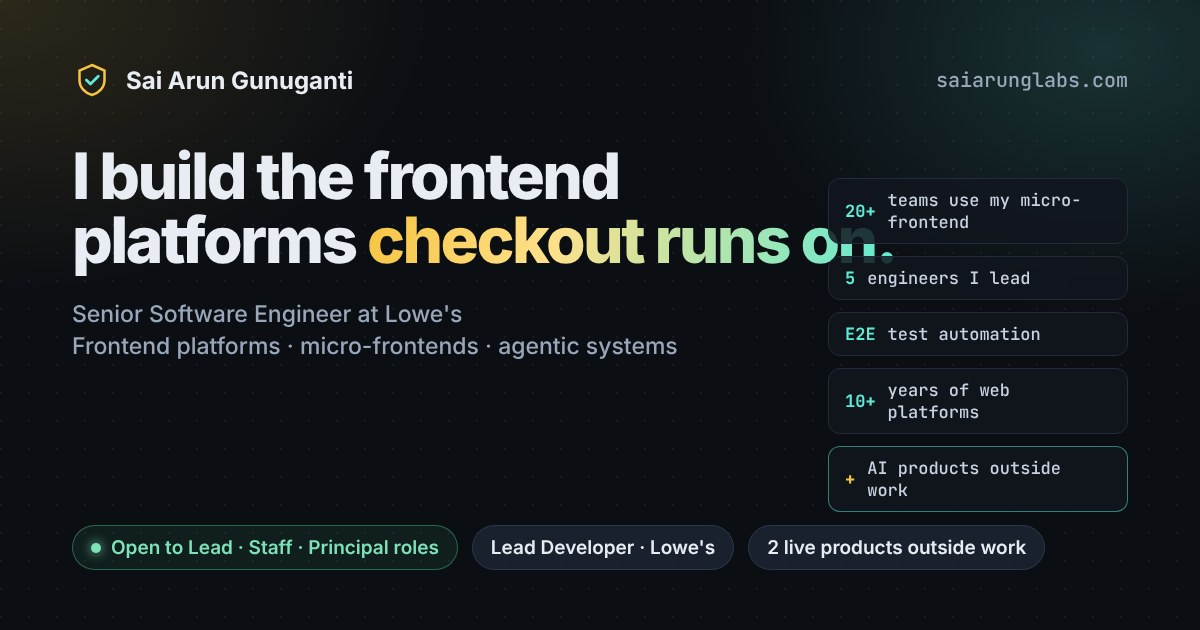
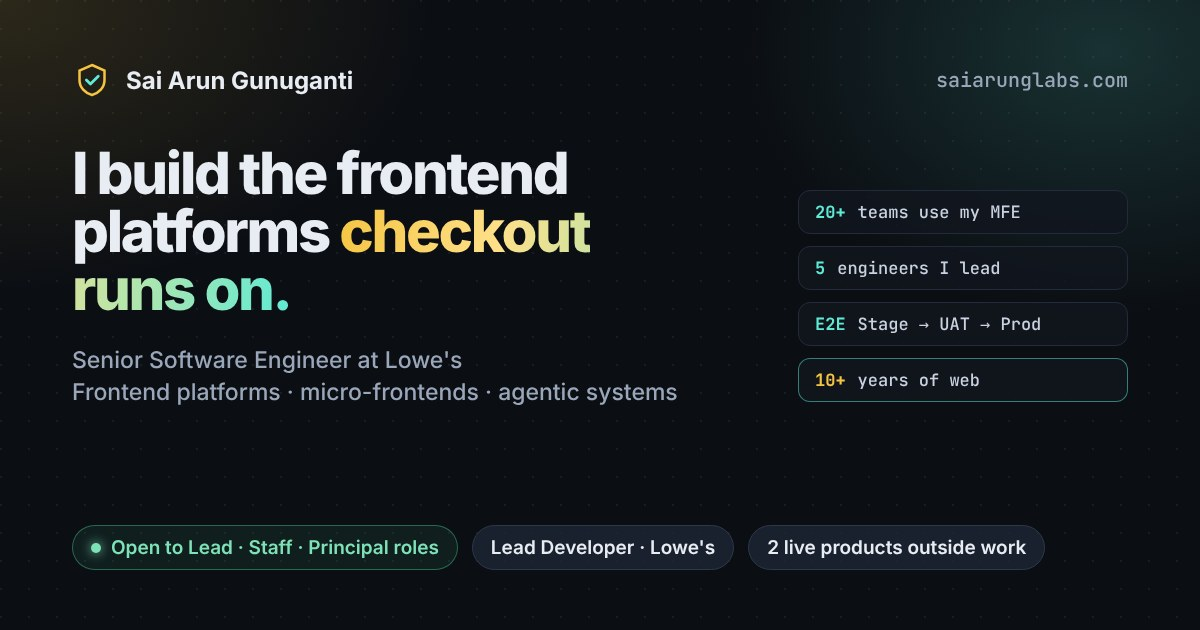
Show Stage → UAT → Production testing in diagram, hero and test automation card; fix link-preview layout
Claude-Session: https://claude.ai/code/session_01HzHLZjxcvi9w3Y5BZCGHBb

Changed region(s): [[0.0617, 0.2413, 0.925, 0.6635], [0.0617, 0.5429, 0.5858, 0.6333], [0.7092, 0.7238, 0.8942, 0.7841]]

diff --git a/index.html b/index.html
@@ -361,7 +361,7 @@
       </div>
       <p class="kicker">Senior Software Engineer · Lead Developer</p>
       <h1>I build the frontend platforms <span class="grad">checkout runs on.</span></h1>
-      <p class="who"><b>Sai Arun Gunuganti</b> — Lead Developer for a team of five at Lowe's. I built the checkout-critical Customer Lookup micro-frontend that 20+ teams integrate into their own applications, and the end-to-end test automation that protects it.</p>
+      <p class="who"><b>Sai Arun Gunuganti</b> — Lead Developer for a team of five at Lowe's. I built the checkout-critical Customer Lookup micro-frontend that 20+ teams integrate into their own applications, and the end-to-end test automation that tests changes in Stage, then UAT, before they ship to production.</p>
       <p class="thesis">Outside work I build agentic products with the same discipline: <b>rules in code</b>, <b>human approval</b> at consequential steps, and a <b>sealed receipt</b> for everything. <a href="#work">See the products</a>.</p>
       <div class="ctas">
         <a class="btn primary" href="resume.pdf" download><svg viewBox="0 0 24 24" fill="none" stroke="currentColor" stroke-width="2.2" stroke-linecap="round" stroke-linejoin="round" aria-hidden="true"><path d="M12 3v12m0 0-5-5m5 5 5-5M4 21h16"/></svg>Download résumé (PDF)</a>
@@ -374,9 +374,9 @@
       </div>
     </div>
 
-    <figure class="mfe" aria-label="Simplified diagram: a Customer Lookup micro-frontend I built from scratch is used by 20+ team applications and protected by end-to-end test automation.">
+    <figure class="mfe" aria-label="Simplified diagram: a Customer Lookup micro-frontend I built from scratch is used by 20+ team applications. End-to-end test automation tests changes in Stage, then UAT, before they deploy to production.">
       <div class="termbar"><i></i><i></i><i></i><span>my platform work — simplified</span></div>
-      <svg viewBox="0 0 520 330" role="img" aria-hidden="true" font-family="Inter,system-ui,sans-serif">
+      <svg viewBox="0 0 520 372" role="img" aria-hidden="true" font-family="Inter,system-ui,sans-serif">
         <defs><marker id="mfa" markerWidth="8" markerHeight="8" refX="7" refY="3" orient="auto"><path d="M0,0 L8,3 L0,6 z" fill="#5eead4"/></marker></defs>
         <rect x="20" y="16" width="480" height="70" rx="12" fill="#121722" stroke="#2e384b"/>
         <rect x="36" y="32" width="62" height="38" rx="7" fill="#1d2534" stroke="#2e384b"/><text x="67" y="55" text-anchor="middle" font-size="11" fill="#9aa7ba">Team app</text>
@@ -390,9 +390,16 @@
         <text x="40" y="184" font-size="12.5" fill="#e8ecf3">built from scratch · owned and run by my team</text>
         <text x="40" y="205" font-size="12" fill="#9aa7ba">checkout-critical · used in Lowe's stores every day</text>
         <line x1="260" y1="256" x2="260" y2="228" stroke="#5eead4" stroke-width="2" marker-end="url(#mfa)"/>
-        <rect x="20" y="260" width="480" height="58" rx="12" fill="#0f2a26" stroke="#5eead4" stroke-opacity=".6"/>
+        <rect x="20" y="260" width="480" height="100" rx="12" fill="#0f2a26" stroke="#5eead4" stroke-opacity=".6"/>
         <text x="40" y="285" font-size="15" font-weight="700" fill="#5eead4">End-to-end test automation</text>
-        <text x="40" y="304" font-size="12" fill="#cfd6e2">catches critical checkout failures before they reach stores</text>
+        <text x="40" y="303" font-size="12" fill="#cfd6e2">changes are tested before they reach stores</text>
+        <g font-size="12.5" font-weight="600">
+          <rect x="40" y="318" width="112" height="30" rx="8" fill="#14352f" stroke="#5eead4" stroke-opacity=".7"/><text x="96" y="338" text-anchor="middle" fill="#e8ecf3">Stage ✓</text>
+          <line x1="156" y1="333" x2="180" y2="333" stroke="#5eead4" stroke-width="2" marker-end="url(#mfa)"/>
+          <rect x="184" y="318" width="112" height="30" rx="8" fill="#14352f" stroke="#5eead4" stroke-opacity=".7"/><text x="240" y="338" text-anchor="middle" fill="#e8ecf3">UAT ✓</text>
+          <line x1="300" y1="333" x2="324" y2="333" stroke="#5eead4" stroke-width="2" marker-end="url(#mfa)"/>
+          <rect x="328" y="318" width="152" height="30" rx="8" fill="#2a2412" stroke="#f5c542"/><text x="404" y="338" text-anchor="middle" fill="#f5c542">Production</text>
+        </g>
       </svg>
       <figcaption>Simplified, public view.</figcaption>
     </figure>
@@ -413,7 +420,7 @@
       <article class="card jobcard reveal hl"><h3>Customer Lookup micro-frontend</h3><p>Built from scratch and integrated by 20+ teams into their own applications. It handles customer profiles, saved quotes and address checks, keeps working when backend services fail, and reports its own performance and errors.</p></article>
       <article class="card jobcard reveal"><h3>Technical leadership</h3><p>Lead Developer for a team of 5 engineers across two locations and single point of contact for a core area of checkout. I mentor engineers, own code review, and wrote the design docs and integration conventions other teams follow when adopting our work.</p></article>
       <article class="card jobcard reveal"><h3>Checkout integration</h3><p>Brought several checkout micro-frontends together into one in-store selling experience through shared event contracts, including screens that stay in sync between the store associate and the customer.</p></article>
-      <article class="card jobcard reveal hl"><h3>Test automation</h3><p>Built the end-to-end test automation framework for in-store selling flows, with reusable business-flow building blocks, runs across environments and clear reporting. It catches critical checkout failures before they reach stores.</p></article>
+      <article class="card jobcard reveal hl"><h3>Test automation</h3><p>Built the end-to-end test automation framework for in-store selling flows, with reusable business-flow building blocks and clear reporting. Changes are tested in Stage, then UAT, before they deploy to production, catching critical checkout failures before they reach stores.</p></article>
       <article class="card jobcard reveal"><h3>Quality platform</h3><p>Built a platform that looks at each code change, works out which business flows it affects, and proposes the end-to-end tests to run or write, with reviewed promotion into the build pipeline.</p></article>
       <article class="card jobcard reveal"><h3>Checkout features</h3><p>Delivered customer-facing checkout features across scheduling, delivery options and pricing rules, payment rules and protection plans, working with product and design.</p></article>
       <article class="card jobcard reveal"><h3>Observability</h3><p>Built shared telemetry tooling for micro-frontends, with privacy and sampling controls built in, so teams can follow a customer journey end to end and spot problems early.</p></article>
